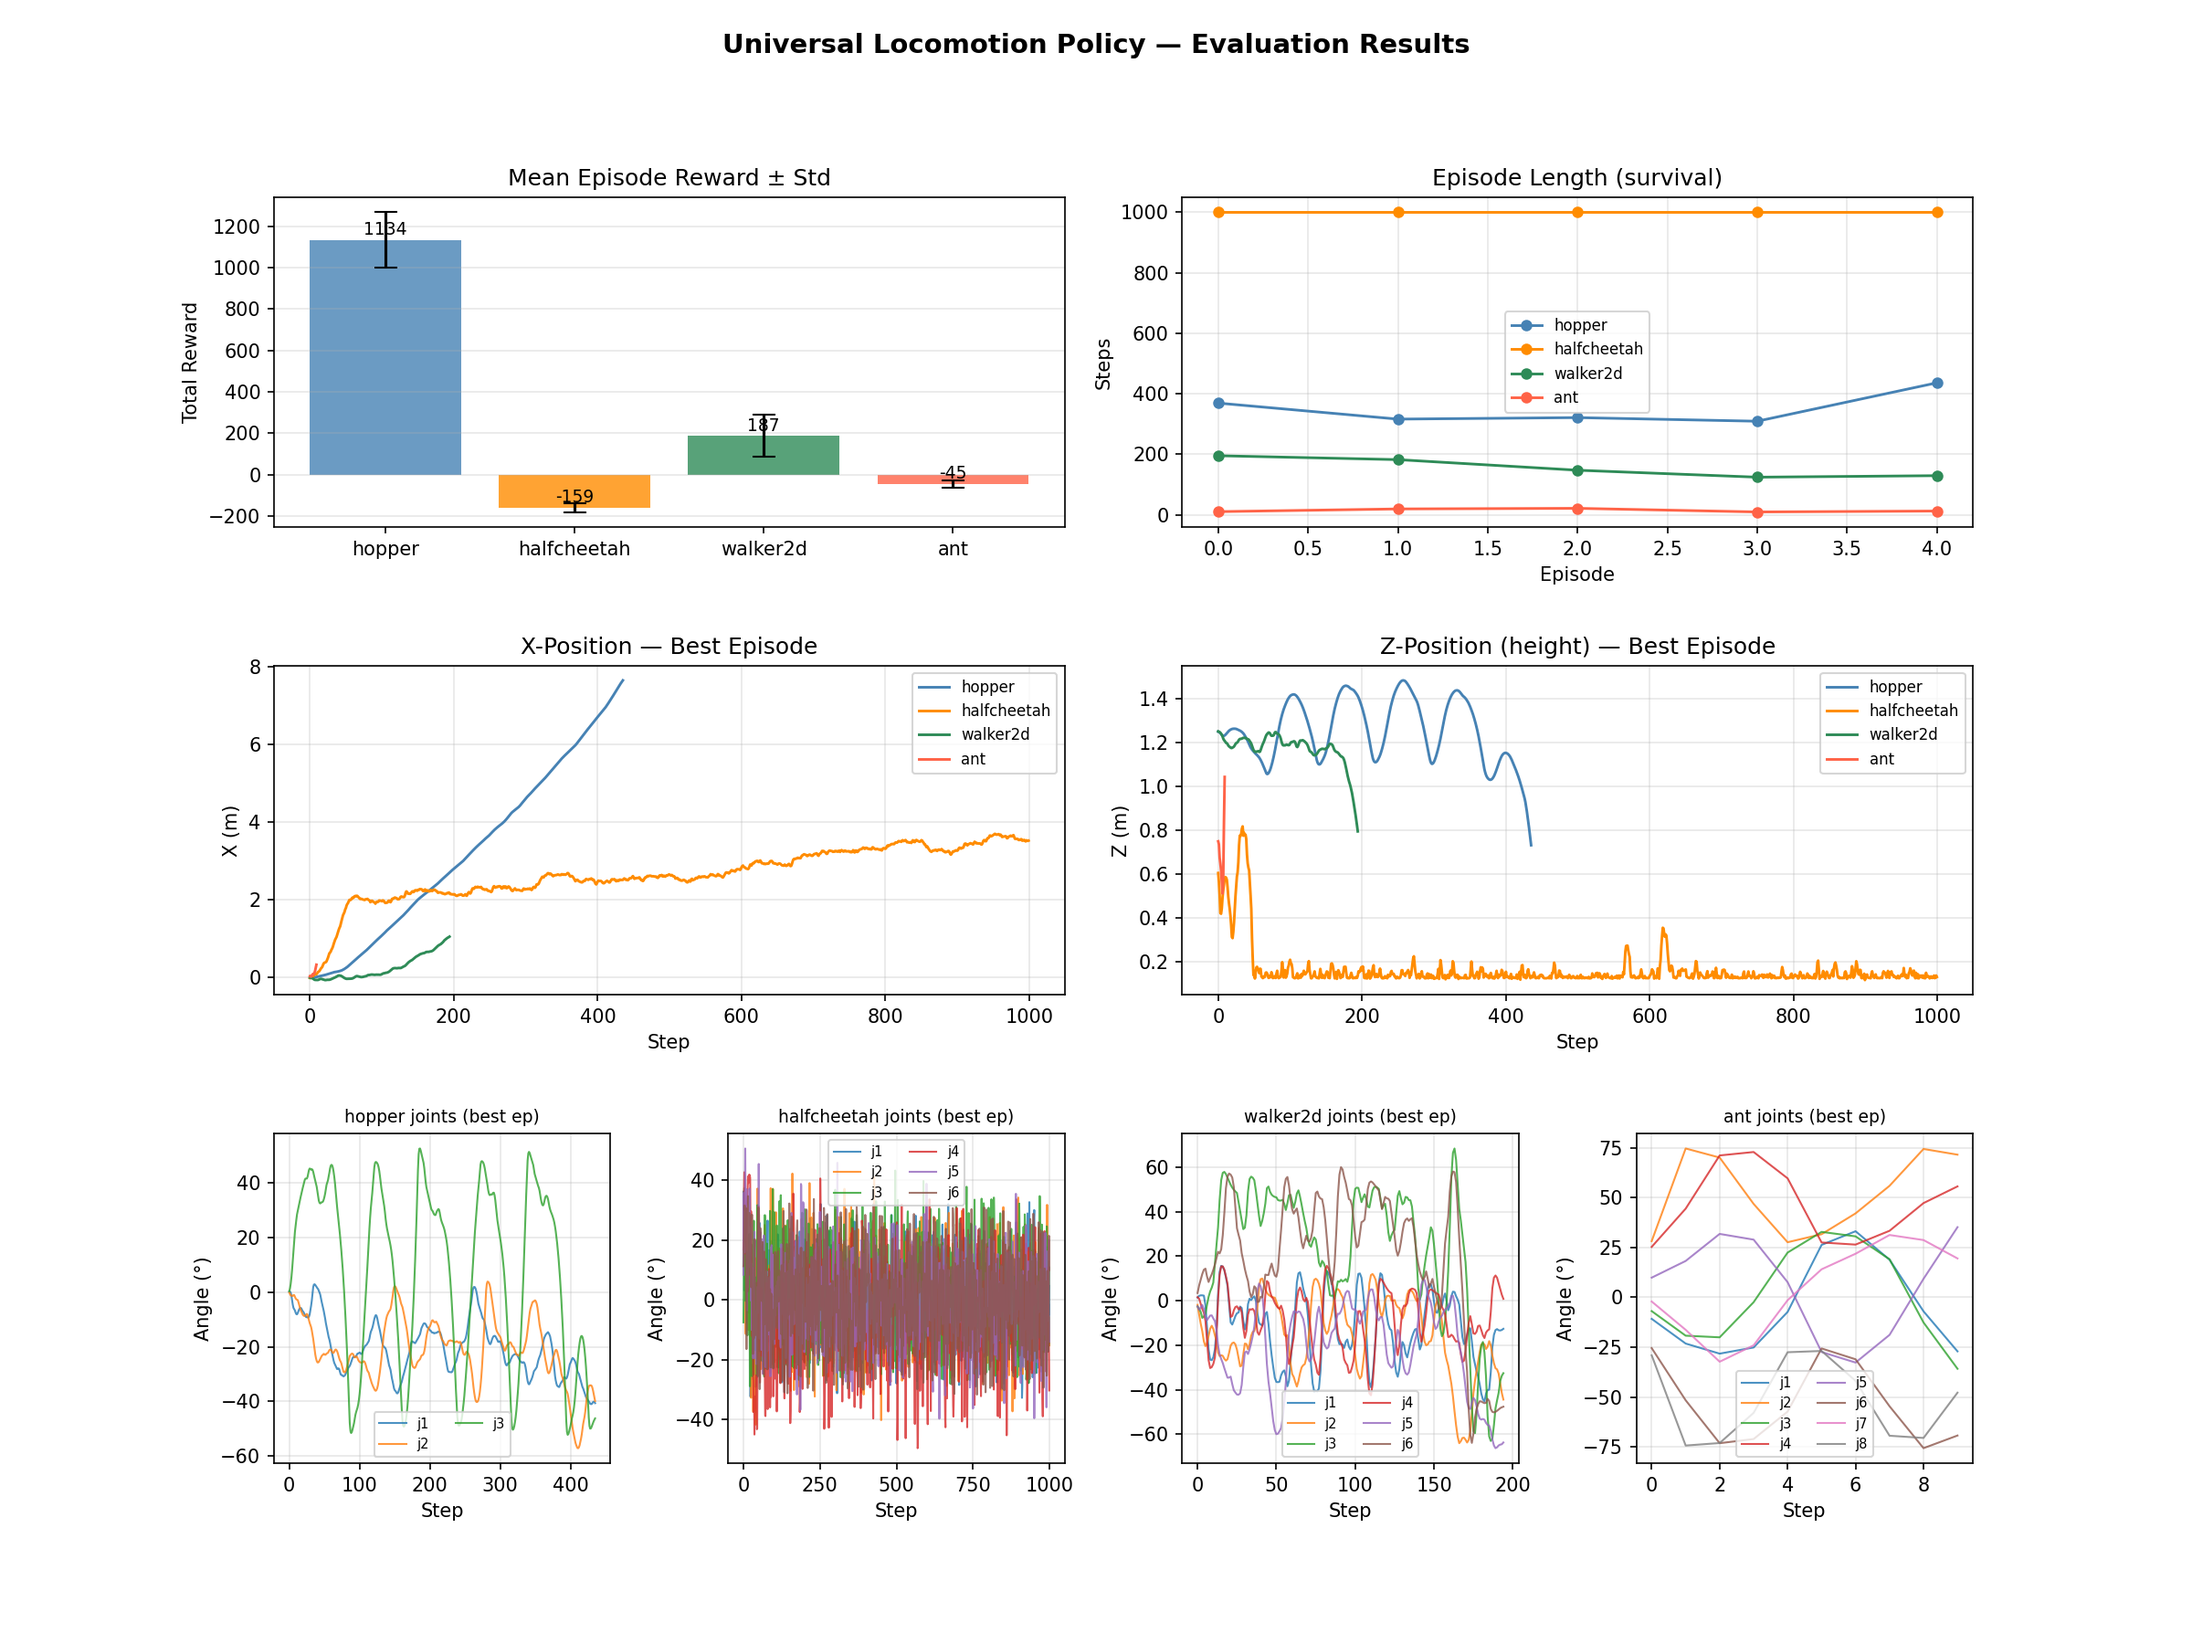
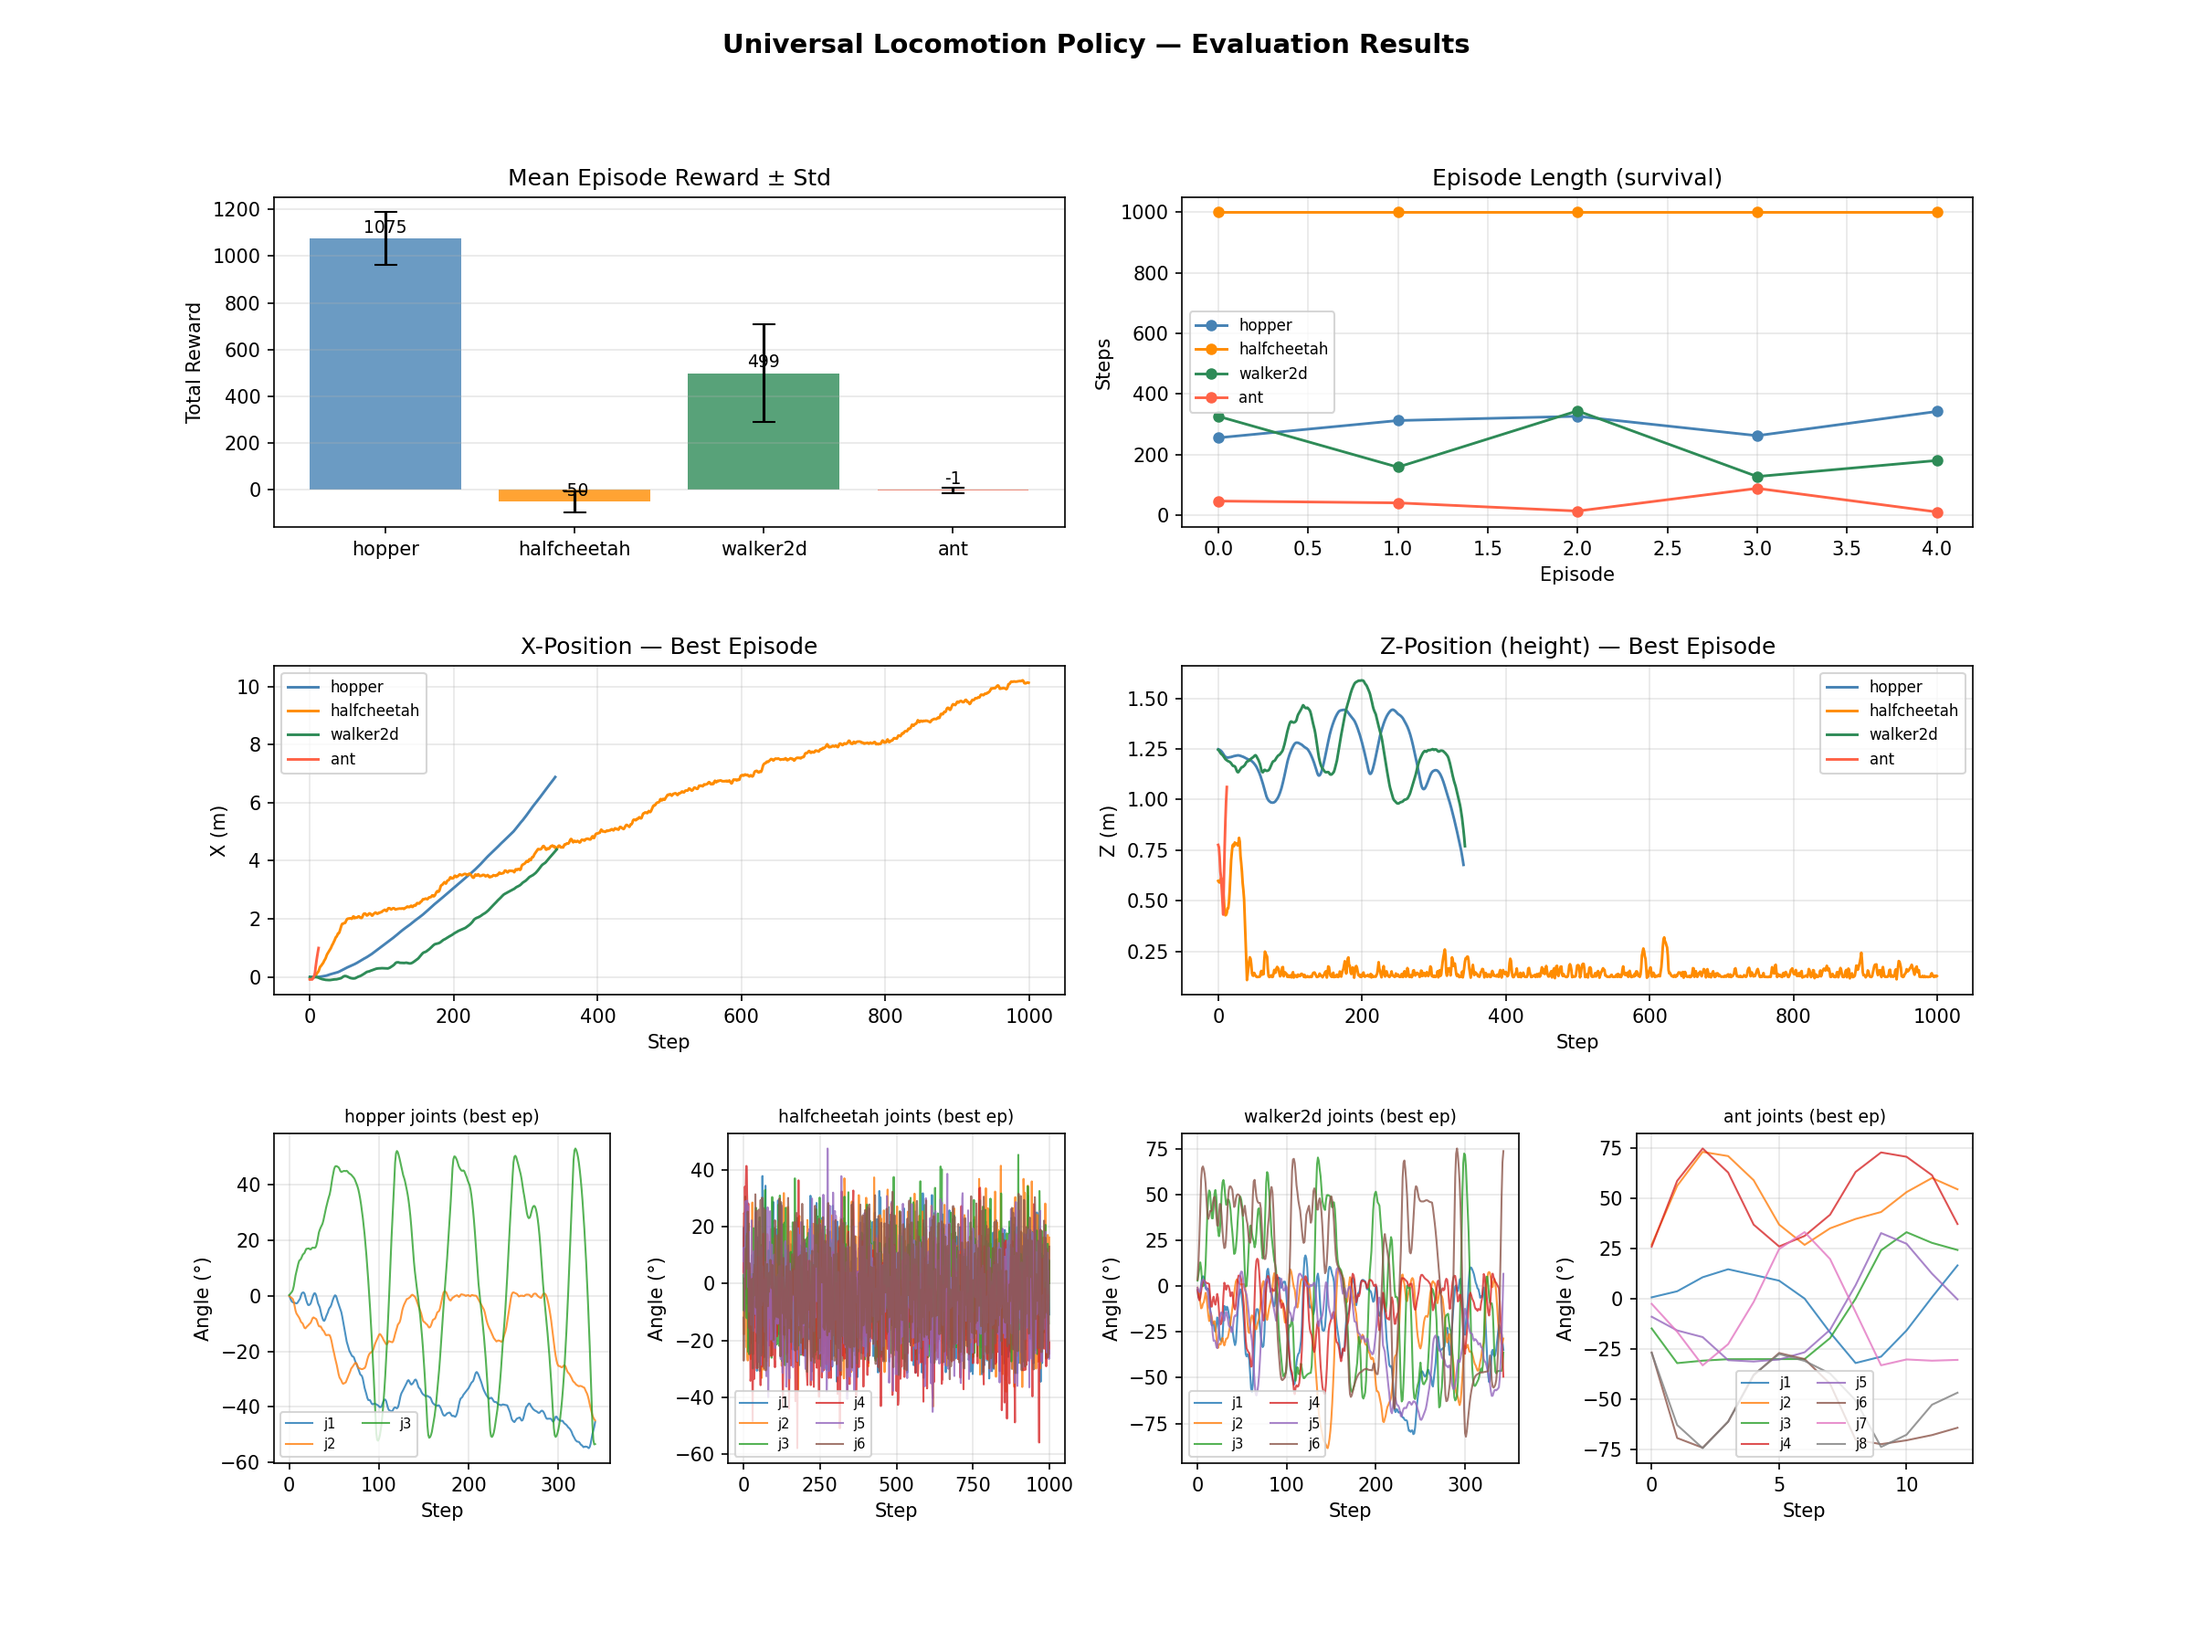
Speed up training: BF16 AMP + torch.compile + longer run
Training speedups:
- BF16 mixed precision (torch.autocast) in both rollout collection and
  PPO update — forward pass in bfloat16, losses cast back to float32.
  No GradScaler needed (bfloat16 has same exponent range as float32).
  5.7ms → 2.9ms/evaluate call.
- torch.compile(mode='reduce-overhead') via --compile flag: further 20%
  speedup. Checkpoint saver unwraps _orig_mod. prefix so saved weights
  are always clean.
- n_steps: 2048 → 4096 (larger rollouts, more stable GAE estimates,
  less per-iteration overhead).
- Default total_steps: 10M → 30M.
- Combined effect: 2700 → ~3570 FPS on RTX 4070.

Results after 30M steps (139 min):
  hopper ~1186, walker2d ~497, halfcheetah ~-34, ant ~-4.
  Transformer still needs 50M+ steps to match MLP baseline.

test.py:
- Add --speed flag (float multiplier, default 1.0 = realtime).
  Uses MuJoCo dt=0.01s/step for accurate throttle.
  Example: --speed 0.3 plays back at 3x slower than realtime.

diff --git a/scripts/universal_locomotion/train.py b/scripts/universal_locomotion/train.py
@@ -133,11 +133,12 @@ class MultiRobotVecEnv:
 
 
 # ── Training loop ─────────────────────────────────────────────────────────────
-def train(total_steps: int = 10_000_000,
+def train(total_steps: int = 30_000_000,
           n_per_robot: int = 4,
-          n_steps:     int = 2048,
+          n_steps:     int = 4096,
           device:      str = 'auto',
-          resume:      bool = False):
+          resume:      bool = False,
+          compile:     bool = False):
 
     os.makedirs(SAVE_DIR, exist_ok=True)
 
@@ -163,6 +164,7 @@ def train(total_steps: int = 10_000_000,
                          batch_size=512, ent_coef=0.02, lr=1e-4,
                          n_epochs=5, vf_coef=0.25, max_grad=0.3)
     buffer  = RolloutBuffer(n_steps, n_envs, OBS_DIM, MAX_DOF, dev)
+    use_amp = (dev.type == 'cuda' and torch.cuda.is_bf16_supported())
 
     total_iters  = total_steps // (n_steps * n_envs)
     start_iter   = 1
@@ -179,6 +181,15 @@ def train(total_steps: int = 10_000_000,
             print("No checkpoint found, starting from scratch.")
 
     policy.to(dev)
+
+    # ── torch.compile (optional, ~20% extra speedup) ──────────────────────
+    if compile:
+        torch._dynamo.config.suppress_errors = True
+        policy = torch.compile(policy, mode='reduce-overhead')
+        trainer.policy = policy
+        print("torch.compile enabled")
+
+    print(f"BF16 AMP: {use_amp}")
 
     # ── LR schedule: warmup 20 iter then linear decay 1e-4 → 1e-5 ───────
     lr_init   = 1e-4
@@ -227,7 +238,12 @@ def train(total_steps: int = 10_000_000,
         policy.eval()
         with torch.no_grad():
             for step in range(n_steps):
-                action_t, log_prob_t, value_t = policy.get_action(obs_t)
+                with torch.autocast('cuda', torch.bfloat16, enabled=use_amp):
+                    action_t, log_prob_t, value_t = policy.get_action(obs_t)
+                # Cast to FP32 for buffer storage and env stepping
+                action_t    = action_t.float()
+                log_prob_t  = log_prob_t.float()
+                value_t     = value_t.float()
 
                 actions_np = action_t.cpu().numpy()
                 next_obs_np, rew_np, done_np, infos = vec_env.step(actions_np)
@@ -266,7 +282,9 @@ def train(total_steps: int = 10_000_000,
 
         # Compute returns
         with torch.no_grad():
-            _, _, last_val = policy.get_action(obs_t)
+            with torch.autocast('cuda', torch.bfloat16, enabled=use_amp):
+                _, _, last_val = policy.get_action(obs_t)
+            last_val = last_val.float()
         buffer.compute_returns(last_val)
 
         # PPO update
@@ -312,8 +330,10 @@ def train(total_steps: int = 10_000_000,
 
 def _save(policy, obs_norm, rew_norms,
           log_steps, log_ep_rew, log_pl, log_vl, log_ent, tag='final'):
-    torch.save(policy.state_dict(),
-               os.path.join(SAVE_DIR, f'policy_{tag}.pt'))
+    # Unwrap torch.compile wrapper before saving so keys have no _orig_mod. prefix
+    sd = (policy._orig_mod.state_dict()
+          if hasattr(policy, '_orig_mod') else policy.state_dict())
+    torch.save(sd, os.path.join(SAVE_DIR, f'policy_{tag}.pt'))
     obs_norm.save(os.path.join(SAVE_DIR, f'obs_norm_{tag}.npz'))
     # Save per-robot reward norms
     for robot, rn in rew_norms.items():
@@ -328,18 +348,21 @@ def _save(policy, obs_norm, rew_norms,
 
 if __name__ == '__main__':
     parser = argparse.ArgumentParser()
-    parser.add_argument('--steps',  type=int, default=10_000_000)
-    parser.add_argument('--envs',   type=int, default=4,
+    parser.add_argument('--steps',   type=int, default=30_000_000)
+    parser.add_argument('--envs',    type=int, default=4,
                         help='Parallel envs per robot')
-    parser.add_argument('--nsteps', type=int, default=2048,
+    parser.add_argument('--nsteps',  type=int, default=4096,
                         help='Rollout steps per update')
-    parser.add_argument('--device', type=str, default='auto')
-    parser.add_argument('--resume', action='store_true',
+    parser.add_argument('--device',  type=str, default='auto')
+    parser.add_argument('--resume',  action='store_true',
                         help='Resume from final checkpoint')
+    parser.add_argument('--compile', action='store_true',
+                        help='torch.compile the policy (~20%% extra speedup)')
     args = parser.parse_args()
 
     train(total_steps=args.steps,
           n_per_robot=args.envs,
           n_steps=args.nsteps,
           device=args.device,
-          resume=args.resume)
+          resume=args.resume,
+          compile=args.compile)

diff --git a/scripts/universal_locomotion/test.py b/scripts/universal_locomotion/test.py
@@ -9,7 +9,7 @@ Usage:
     python scripts/universal_locomotion/test.py --ckpt ckpt_100  # specific ckpt
 """
 
-import os, sys, argparse, warnings
+import os, sys, argparse, warnings, time
 import numpy as np
 warnings.filterwarnings('ignore', category=DeprecationWarning)
 
@@ -46,8 +46,11 @@ ROBOT_COLORS = {
 
 # ── Evaluation ────────────────────────────────────────────────────────────────
 def evaluate(policy, obs_norm: RunningNorm, robot_name: str,
-             n_eps: int, render: bool = False, device='cpu'):
-    """Run policy for n_eps episodes. Returns per-episode metrics."""
+             n_eps: int, render: bool = False, device='cpu',
+             speed: float = 1.0):
+    """Run policy for n_eps episodes. Returns per-episode metrics.
+    speed: playback multiplier (1.0 = realtime, 0.5 = half speed, 0.1 = very slow)
+    """
 
     render_mode = 'human' if render else None
     env = UniversalLocomotionEnv(robot_name, render_mode=render_mode)
@@ -90,6 +93,10 @@ def evaluate(policy, obs_norm: RunningNorm, robot_name: str,
             done = term or trunc
             total_r += rew
             steps   += 1
+
+            # Realtime throttle: MuJoCo timestep is 0.002s × frame_skip(5) = 0.01s/step
+            if render and speed > 0:
+                time.sleep(0.01 / speed)
 
             d = env._data
             x_traj.append(float(d.xpos[1][0]))
@@ -239,7 +246,7 @@ def plot_eval_results(results: dict, out_dir: str):
 
 
 # ── Main ──────────────────────────────────────────────────────────────────────
-def main(ckpt_tag: str = 'final', render_robot: str = None):
+def main(ckpt_tag: str = 'final', render_robot: str = None, speed: float = 1.0):
     os.makedirs(RESULTS_DIR, exist_ok=True)
 
     policy_path  = os.path.join(SAVE_DIR, f'policy_{ckpt_tag}.pt')
@@ -271,7 +278,8 @@ def main(ckpt_tag: str = 'final', render_robot: str = None):
         print(f"\nEvaluating {robot}…")
         render = (robot == render_robot)
         results[robot] = evaluate(
-            policy, obs_norm, robot, N_EVAL_EPS, render=render, device=device
+            policy, obs_norm, robot, N_EVAL_EPS, render=render,
+            device=device, speed=speed
         )
 
     # Summary
@@ -295,5 +303,7 @@ if __name__ == '__main__':
                         help='Checkpoint tag (default: final)')
     parser.add_argument('--render', default=None,
                         help='Robot to show in MuJoCo viewer (e.g. ant)')
+    parser.add_argument('--speed',  type=float, default=1.0,
+                        help='Playback speed multiplier (1=realtime, 0.5=half, 0.1=very slow)')
     args = parser.parse_args()
-    main(ckpt_tag=args.ckpt, render_robot=args.render)
+    main(ckpt_tag=args.ckpt, render_robot=args.render, speed=args.speed)

diff --git a/scripts/universal_locomotion/ppo.py b/scripts/universal_locomotion/ppo.py
@@ -271,6 +271,9 @@ class PPOTrainer:
 
         self.optimizer = torch.optim.Adam(policy.parameters(), lr=lr, eps=1e-5)
         self.scheduler = None
+        # BF16 mixed precision: enabled on CUDA (bfloat16 needs no GradScaler)
+        self._use_amp = (self.device.type == 'cuda' and
+                         torch.cuda.is_bf16_supported())
 
     def set_scheduler(self, scheduler):
         self.scheduler = scheduler
@@ -282,7 +285,12 @@ class PPOTrainer:
             for obs_b, act_b, lp_old, ret_b, adv_b, val_old in \
                     buffer.get_batches(self.batch_size):
 
-                lp_new, ent, val = self.policy.evaluate(obs_b, act_b)
+                # Forward in BF16, losses in FP32
+                with torch.autocast('cuda', torch.bfloat16, enabled=self._use_amp):
+                    lp_new, ent, val = self.policy.evaluate(obs_b, act_b)
+                lp_new = lp_new.float()
+                ent    = ent.float()
+                val    = val.float()
 
                 # Policy loss (clipped surrogate)
                 ratio = (lp_new - lp_old).exp()
